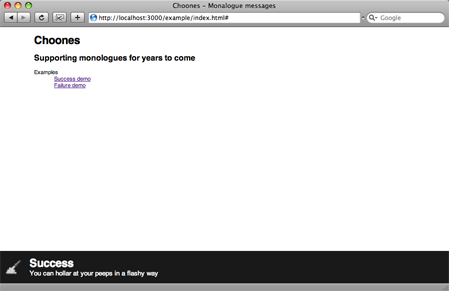
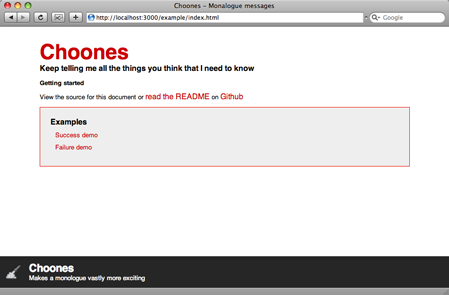
Added a new screen shot and tried to stop crapping on about monologues (Just cleaning house really)

diff --git a/example/index.html b/example/index.html
@@ -10,8 +10,7 @@
   <body>
     <div id="wrapper">
       <h1>Choones</h1>
-      <h2>Supporting monologues for years to come</h2>
-      
+      <h2>Keep telling me all the things you think that I need to know</h2>
       
       <h3>Getting started</h3>
       <p>View the source for this document or <a href="https://github.com/benschwarz/choones/tree">read the README</a> on <a href="https://github.com/" title="GIT Repository hosting">Github</a></p>
